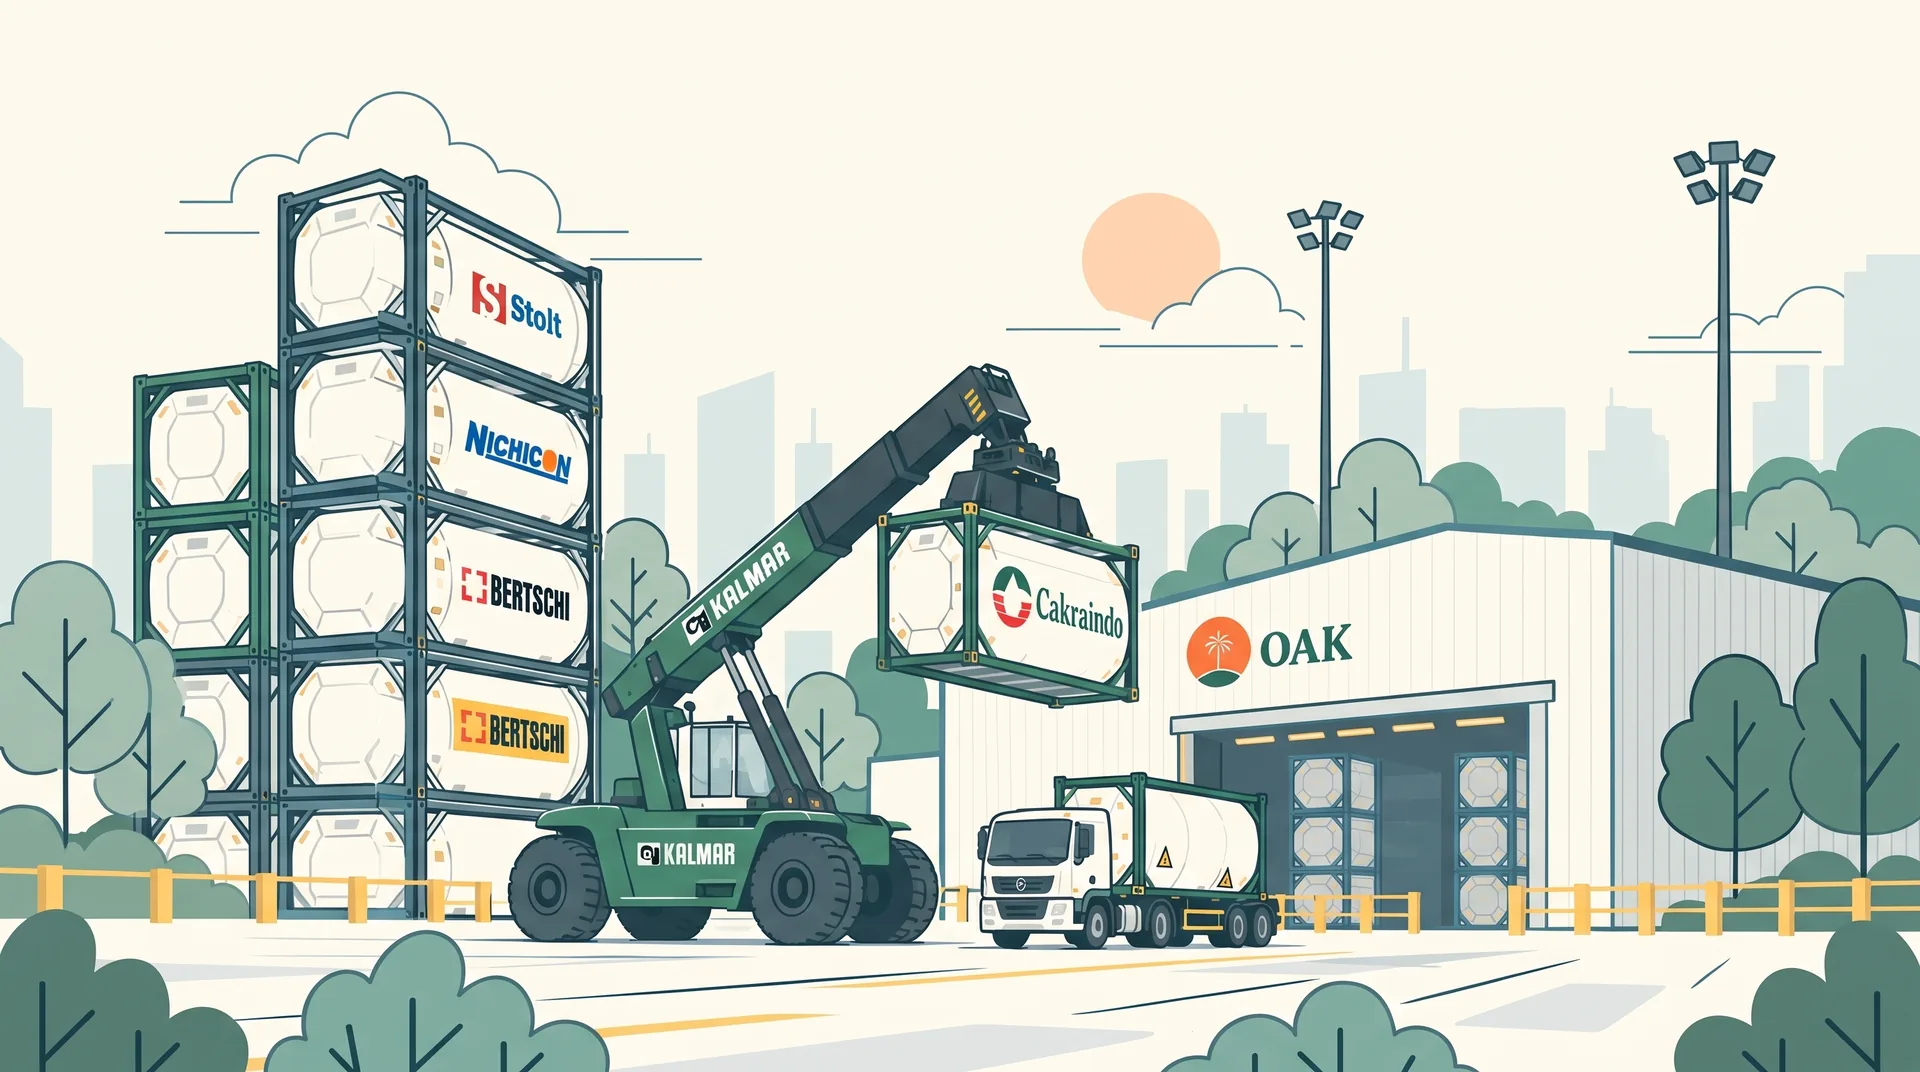
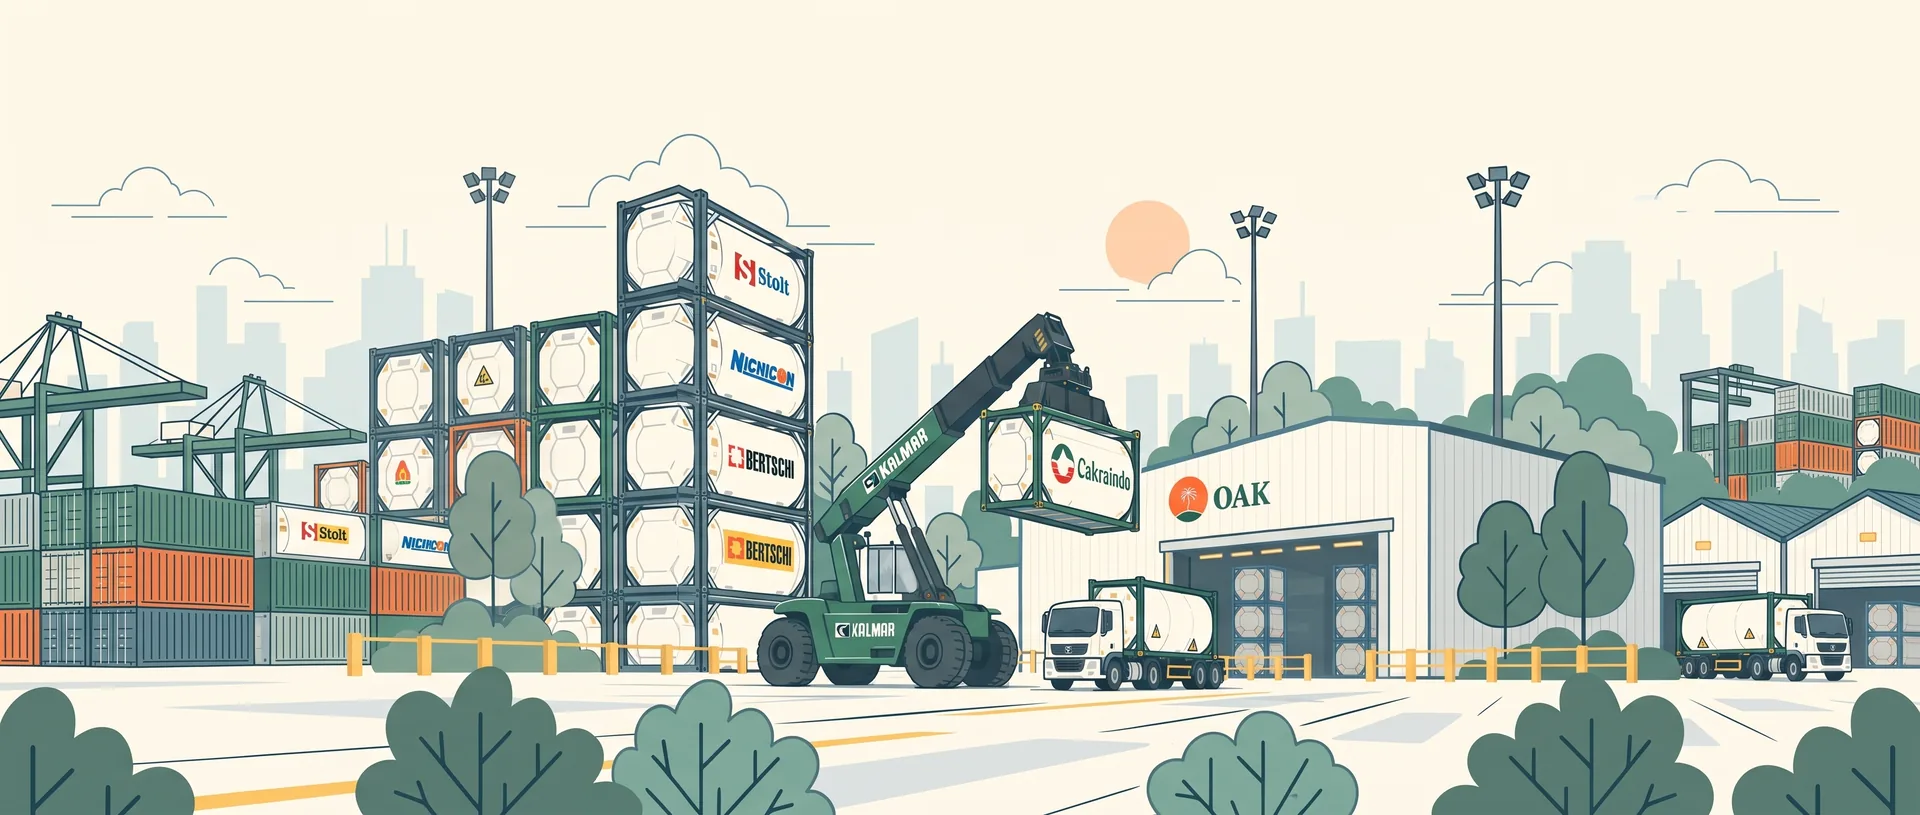
feat(login): swap in the wider yard illustration
The new render is 2.36:1 (3168x1344, resized to 1920x815 and stored as
WebP, 132 KB) and carries more of the yard: the quay cranes on the left
and the sheds on the right.

At that width `cover` only pays off on a screen nearly as wide as the
art, so it is now reserved for windows wider than 2:1. Everything below
that — including ordinary 16:9 and 16:10 desktops — scales the
illustration to the full width and lets it sit as a band at the foot of
the page, cream above, which keeps the whole scene visible instead of
magnifying the middle of it.

diff --git a/container_depot/public/css/login.css b/container_depot/public/css/login.css
@@ -15,8 +15,8 @@
 	--oak-line: #e7e2d7;
 	/* Krem latar = warna latar ilustrasi, supaya gambar menyatu tanpa batas. */
 	--oak-cream: #fdf9ed;
-	/* Ilustrasi yard: 2752x1536 asli diperkecil ke 1920px dan disimpan WebP
-	   (2 MB jadi 139 KB) — ini gambar pertama di halaman pertama. */
+	/* Ilustrasi yard: 3168x1344 asli diperkecil ke 1920x815 dan disimpan WebP
+	   (2 MB jadi 132 KB) — ini gambar pertama di halaman pertama. */
 	--oak-login-art: url("/assets/container_depot/images/login-yard.webp");
 }
 
@@ -24,7 +24,7 @@
    templates/web.html, jadi tidak perlu ikut campur layout web Frappe.
    ponytail: language picker di navbar ikut tertutup — belum dipakai di site ini.
 
-   Ilustrasi lanskap (rasio 16:9) dipasang `cover` dan dikaitkan ke tepi bawah:
+   Ilustrasi lanskap (rasio 2.36:1) dipasang `cover` dan dikaitkan ke tepi bawah:
    yang dipangkas langit, yard dan gedung OAK tetap utuh di tiap tinggi jendela. */
 .oak-login {
 	position: fixed;
@@ -377,11 +377,11 @@
 
 /* ---------- ponsel ---------- */
 
-/* Ilustrasi 16:9 dipasang `cover` hanya selama jendelanya memang lebar. Di layar
+/* Ilustrasi 2.36:1 dipasang `cover` hanya selama jendelanya memang lebar. Di layar
    tegak (tablet portrait, ponsel) `cover` memperbesar gambar sampai yang terlihat
    cuma roda reachstacker — jadi di sana gambarnya dipakai selebar layar dan duduk
    sebagai pita di kaki halaman, sisanya krem. */
-@media (max-aspect-ratio: 13 / 10) {
+@media (max-aspect-ratio: 2 / 1) {
 	.oak-login {
 		background-size: 100% auto;
 	}
